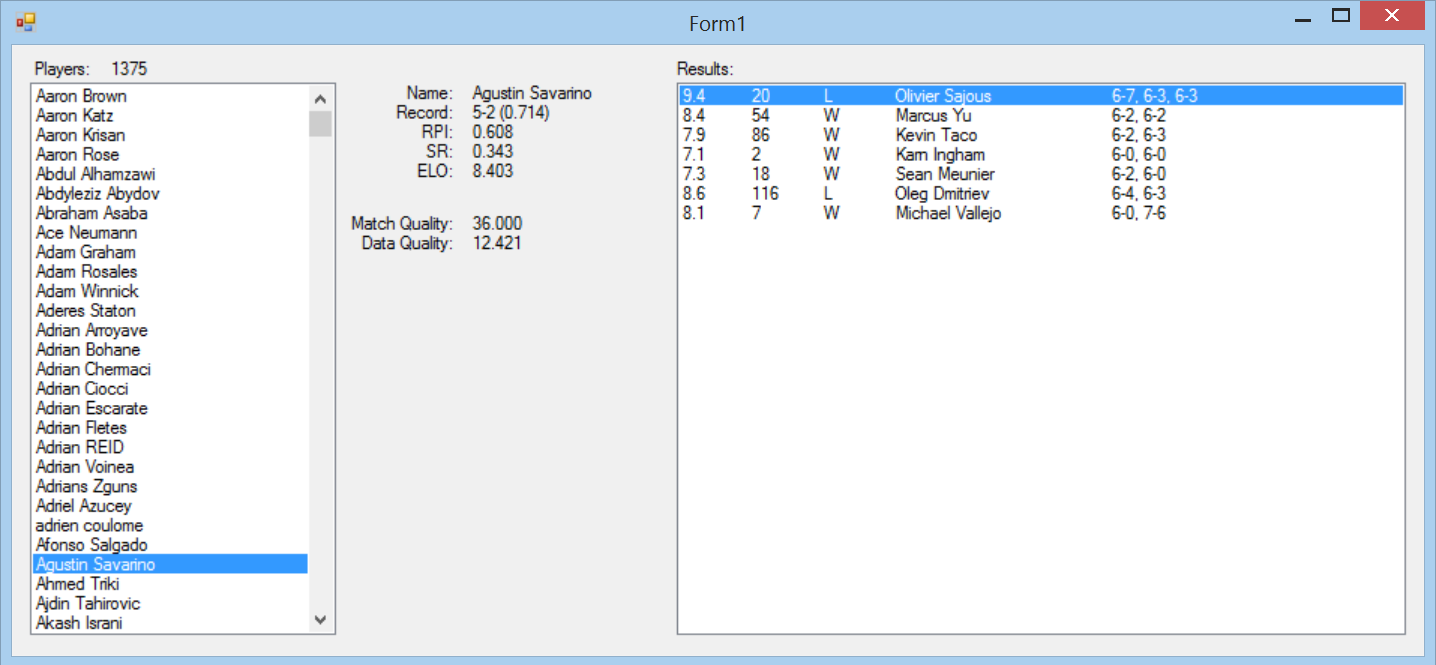
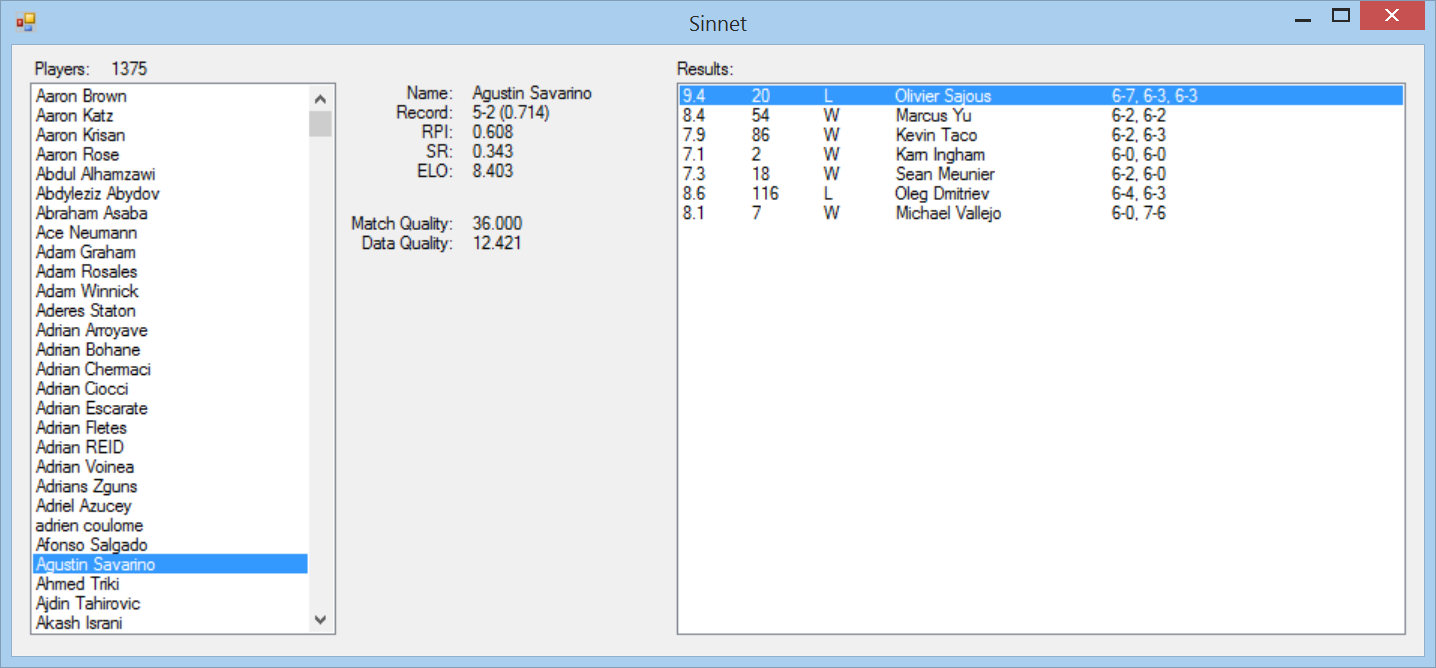
Updated Screenshot

diff --git a/Sinnet/MainForm.Designer.cs b/Sinnet/MainForm.Designer.cs
@@ -52,178 +52,199 @@
             // playersListBox
             // 
             this.playersListBox.FormattingEnabled = true;
-            this.playersListBox.Location = new System.Drawing.Point(12, 25);
+            this.playersListBox.ItemHeight = 20;
+            this.playersListBox.Location = new System.Drawing.Point(18, 38);
+            this.playersListBox.Margin = new System.Windows.Forms.Padding(4, 5, 4, 5);
             this.playersListBox.Name = "playersListBox";
-            this.playersListBox.Size = new System.Drawing.Size(204, 368);
+            this.playersListBox.Size = new System.Drawing.Size(304, 564);
             this.playersListBox.TabIndex = 1;
             this.playersListBox.SelectedIndexChanged += new System.EventHandler(this.playersListBox_SelectedIndexChanged);
             // 
             // label1
             // 
             this.label1.AutoSize = true;
-            this.label1.Location = new System.Drawing.Point(12, 9);
+            this.label1.Location = new System.Drawing.Point(18, 14);
+            this.label1.Margin = new System.Windows.Forms.Padding(4, 0, 4, 0);
             this.label1.Name = "label1";
-            this.label1.Size = new System.Drawing.Size(44, 13);
+            this.label1.Size = new System.Drawing.Size(64, 20);
             this.label1.TabIndex = 2;
             this.label1.Text = "Players:";
             // 
             // numPlayersLabel
             // 
             this.numPlayersLabel.AutoSize = true;
-            this.numPlayersLabel.Location = new System.Drawing.Point(63, 9);
+            this.numPlayersLabel.Location = new System.Drawing.Point(94, 14);
+            this.numPlayersLabel.Margin = new System.Windows.Forms.Padding(4, 0, 4, 0);
             this.numPlayersLabel.Name = "numPlayersLabel";
-            this.numPlayersLabel.Size = new System.Drawing.Size(13, 13);
+            this.numPlayersLabel.Size = new System.Drawing.Size(18, 20);
             this.numPlayersLabel.TabIndex = 3;
             this.numPlayersLabel.Text = "0";
             // 
             // resultsListBox
             // 
             this.resultsListBox.FormattingEnabled = true;
-            this.resultsListBox.Location = new System.Drawing.Point(443, 25);
+            this.resultsListBox.ItemHeight = 20;
+            this.resultsListBox.Location = new System.Drawing.Point(664, 38);
+            this.resultsListBox.Margin = new System.Windows.Forms.Padding(4, 5, 4, 5);
             this.resultsListBox.Name = "resultsListBox";
-            this.resultsListBox.Size = new System.Drawing.Size(486, 368);
+            this.resultsListBox.Size = new System.Drawing.Size(727, 564);
             this.resultsListBox.TabIndex = 4;
             // 
             // label2
             // 
             this.label2.AutoSize = true;
-            this.label2.Location = new System.Drawing.Point(260, 25);
+            this.label2.Location = new System.Drawing.Point(390, 38);
+            this.label2.Margin = new System.Windows.Forms.Padding(4, 0, 4, 0);
             this.label2.Name = "label2";
-            this.label2.Size = new System.Drawing.Size(38, 13);
+            this.label2.Size = new System.Drawing.Size(55, 20);
             this.label2.TabIndex = 5;
             this.label2.Text = "Name:";
             // 
             // playerNameLabel
             // 
             this.playerNameLabel.AutoSize = true;
-            this.playerNameLabel.Location = new System.Drawing.Point(304, 25);
+            this.playerNameLabel.Location = new System.Drawing.Point(456, 38);
+            this.playerNameLabel.Margin = new System.Windows.Forms.Padding(4, 0, 4, 0);
             this.playerNameLabel.Name = "playerNameLabel";
-            this.playerNameLabel.Size = new System.Drawing.Size(13, 13);
+            this.playerNameLabel.Size = new System.Drawing.Size(18, 20);
             this.playerNameLabel.TabIndex = 6;
             this.playerNameLabel.Text = "_";
             // 
             // label3
             // 
             this.label3.AutoSize = true;
-            this.label3.Location = new System.Drawing.Point(253, 38);
+            this.label3.Location = new System.Drawing.Point(380, 58);
+            this.label3.Margin = new System.Windows.Forms.Padding(4, 0, 4, 0);
             this.label3.Name = "label3";
-            this.label3.Size = new System.Drawing.Size(45, 13);
+            this.label3.Size = new System.Drawing.Size(65, 20);
             this.label3.TabIndex = 5;
             this.label3.Text = "Record:";
             // 
             // recordLabel
             // 
             this.recordLabel.AutoSize = true;
-            this.recordLabel.Location = new System.Drawing.Point(304, 38);
+            this.recordLabel.Location = new System.Drawing.Point(456, 58);
+            this.recordLabel.Margin = new System.Windows.Forms.Padding(4, 0, 4, 0);
             this.recordLabel.Name = "recordLabel";
-            this.recordLabel.Size = new System.Drawing.Size(13, 13);
+            this.recordLabel.Size = new System.Drawing.Size(18, 20);
             this.recordLabel.TabIndex = 6;
             this.recordLabel.Text = "_";
             // 
             // label4
             // 
             this.label4.AutoSize = true;
-            this.label4.Location = new System.Drawing.Point(440, 9);
+            this.label4.Location = new System.Drawing.Point(660, 14);
+            this.label4.Margin = new System.Windows.Forms.Padding(4, 0, 4, 0);
             this.label4.Name = "label4";
-            this.label4.Size = new System.Drawing.Size(45, 13);
+            this.label4.Size = new System.Drawing.Size(67, 20);
             this.label4.TabIndex = 2;
             this.label4.Text = "Results:";
             // 
             // label5
             // 
             this.label5.AutoSize = true;
-            this.label5.Location = new System.Drawing.Point(270, 51);
+            this.label5.Location = new System.Drawing.Point(405, 78);
+            this.label5.Margin = new System.Windows.Forms.Padding(4, 0, 4, 0);
             this.label5.Name = "label5";
-            this.label5.Size = new System.Drawing.Size(28, 13);
+            this.label5.Size = new System.Drawing.Size(40, 20);
             this.label5.TabIndex = 5;
             this.label5.Text = "RPI:";
             // 
             // rpiLabel
             // 
             this.rpiLabel.AutoSize = true;
-            this.rpiLabel.Location = new System.Drawing.Point(304, 51);
+            this.rpiLabel.Location = new System.Drawing.Point(456, 78);
+            this.rpiLabel.Margin = new System.Windows.Forms.Padding(4, 0, 4, 0);
             this.rpiLabel.Name = "rpiLabel";
-            this.rpiLabel.Size = new System.Drawing.Size(13, 13);
+            this.rpiLabel.Size = new System.Drawing.Size(18, 20);
             this.rpiLabel.TabIndex = 6;
             this.rpiLabel.Text = "_";
             // 
             // label7
             // 
             this.label7.AutoSize = true;
-            this.label7.Location = new System.Drawing.Point(273, 64);
+            this.label7.Location = new System.Drawing.Point(410, 98);
+            this.label7.Margin = new System.Windows.Forms.Padding(4, 0, 4, 0);
             this.label7.Name = "label7";
-            this.label7.Size = new System.Drawing.Size(25, 13);
+            this.label7.Size = new System.Drawing.Size(36, 20);
             this.label7.TabIndex = 5;
             this.label7.Text = "SR:";
             // 
             // srLabel
             // 
             this.srLabel.AutoSize = true;
-            this.srLabel.Location = new System.Drawing.Point(304, 64);
+            this.srLabel.Location = new System.Drawing.Point(456, 98);
+            this.srLabel.Margin = new System.Windows.Forms.Padding(4, 0, 4, 0);
             this.srLabel.Name = "srLabel";
-            this.srLabel.Size = new System.Drawing.Size(13, 13);
+            this.srLabel.Size = new System.Drawing.Size(18, 20);
             this.srLabel.TabIndex = 6;
             this.srLabel.Text = "_";
             // 
             // label9
             // 
             this.label9.AutoSize = true;
-            this.label9.Location = new System.Drawing.Point(267, 77);
+            this.label9.Location = new System.Drawing.Point(400, 118);
+            this.label9.Margin = new System.Windows.Forms.Padding(4, 0, 4, 0);
             this.label9.Name = "label9";
-            this.label9.Size = new System.Drawing.Size(31, 13);
+            this.label9.Size = new System.Drawing.Size(45, 20);
             this.label9.TabIndex = 5;
             this.label9.Text = "ELO:";
             // 
             // eloLabel
             // 
             this.eloLabel.AutoSize = true;
-            this.eloLabel.Location = new System.Drawing.Point(304, 77);
+            this.eloLabel.Location = new System.Drawing.Point(456, 118);
+            this.eloLabel.Margin = new System.Windows.Forms.Padding(4, 0, 4, 0);
             this.eloLabel.Name = "eloLabel";
-            this.eloLabel.Size = new System.Drawing.Size(13, 13);
+            this.eloLabel.Size = new System.Drawing.Size(18, 20);
             this.eloLabel.TabIndex = 6;
             this.eloLabel.Text = "_";
             // 
             // label6
             // 
             this.label6.AutoSize = true;
-            this.label6.Location = new System.Drawing.Point(223, 112);
+            this.label6.Location = new System.Drawing.Point(334, 172);
+            this.label6.Margin = new System.Windows.Forms.Padding(4, 0, 4, 0);
             this.label6.Name = "label6";
-            this.label6.Size = new System.Drawing.Size(75, 13);
+            this.label6.Size = new System.Drawing.Size(109, 20);
             this.label6.TabIndex = 5;
             this.label6.Text = "Match Quality:";
             // 
             // matchQualityLabel
             // 
             this.matchQualityLabel.AutoSize = true;
-            this.matchQualityLabel.Location = new System.Drawing.Point(304, 112);
+            this.matchQualityLabel.Location = new System.Drawing.Point(456, 172);
+            this.matchQualityLabel.Margin = new System.Windows.Forms.Padding(4, 0, 4, 0);
             this.matchQualityLabel.Name = "matchQualityLabel";
-            this.matchQualityLabel.Size = new System.Drawing.Size(13, 13);
+            this.matchQualityLabel.Size = new System.Drawing.Size(18, 20);
             this.matchQualityLabel.TabIndex = 6;
             this.matchQualityLabel.Text = "_";
             // 
             // label8
             // 
             this.label8.AutoSize = true;
-            this.label8.Location = new System.Drawing.Point(230, 125);
+            this.label8.Location = new System.Drawing.Point(345, 192);
+            this.label8.Margin = new System.Windows.Forms.Padding(4, 0, 4, 0);
             this.label8.Name = "label8";
-            this.label8.Size = new System.Drawing.Size(68, 13);
+            this.label8.Size = new System.Drawing.Size(100, 20);
             this.label8.TabIndex = 5;
             this.label8.Text = "Data Quality:";
             // 
             // dataQualityLabel
             // 
             this.dataQualityLabel.AutoSize = true;
-            this.dataQualityLabel.Location = new System.Drawing.Point(304, 125);
+            this.dataQualityLabel.Location = new System.Drawing.Point(456, 192);
+            this.dataQualityLabel.Margin = new System.Windows.Forms.Padding(4, 0, 4, 0);
             this.dataQualityLabel.Name = "dataQualityLabel";
-            this.dataQualityLabel.Size = new System.Drawing.Size(13, 13);
+            this.dataQualityLabel.Size = new System.Drawing.Size(18, 20);
             this.dataQualityLabel.TabIndex = 6;
             this.dataQualityLabel.Text = "_";
             // 
             // MainForm
             // 
-            this.AutoScaleDimensions = new System.Drawing.SizeF(6F, 13F);
+            this.AutoScaleDimensions = new System.Drawing.SizeF(9F, 20F);
             this.AutoScaleMode = System.Windows.Forms.AutoScaleMode.Font;
-            this.ClientSize = new System.Drawing.Size(941, 407);
+            this.ClientSize = new System.Drawing.Size(1412, 626);
             this.Controls.Add(this.dataQualityLabel);
             this.Controls.Add(this.matchQualityLabel);
             this.Controls.Add(this.eloLabel);
@@ -243,8 +264,9 @@
             this.Controls.Add(this.label4);
             this.Controls.Add(this.label1);
             this.Controls.Add(this.playersListBox);
+            this.Margin = new System.Windows.Forms.Padding(4, 5, 4, 5);
             this.Name = "MainForm";
-            this.Text = "Form1";
+            this.Text = "Sinnet";
             this.ResumeLayout(false);
             this.PerformLayout();
 

diff --git a/Sinnet/MainForm.cs b/Sinnet/MainForm.cs
@@ -30,8 +30,6 @@ namespace Sinnet
 
             Rater.CalculateELO(matches);
 
-            //PlayerManager.PrintRatingList();
-
             playersListBox.Sorted = true;
             playersListBox.DataSource = PlayerManager.players;
             playersListBox.DisplayMember = "Name";
